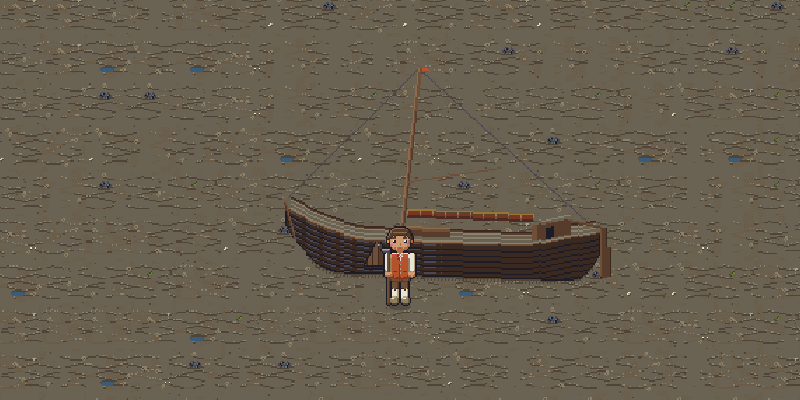
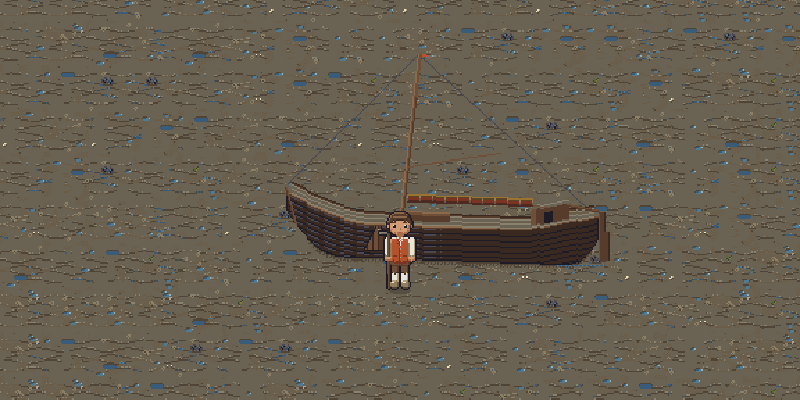
Docs: coast, Ewer and sea-bird screenshots re-taken with the wetter tidal mud (#92)
Retaken at the old framing and sizes with make screenshot; the coast is a 2x2 of
four shots (summer low water, autumn tide coming in, summer Ewer on the mud,
winter snow), the sea birds a 2x2 of four. landing.png shows no tidal mud and
is unchanged.

Changed region(s): [[0.0, 0.0, 1.0, 1.0]]

diff --git a/handbook/animals.md b/handbook/animals.md
@@ -155,4 +155,4 @@ building, and they run from villagers as from you.
 - Common terns fish over the tideways in summer, hovering and plunging.
 - When the tide comes in, the waders leave the mud and the gulls swim where they stood.
 
-![Oystercatchers, dunlin, gulls and terns at the mud and the sea](../docs/screenshots/sea-birds.png)
+![Oystercatchers, dunlin and gulls at the mud and the sea](../docs/screenshots/sea-birds.png)
